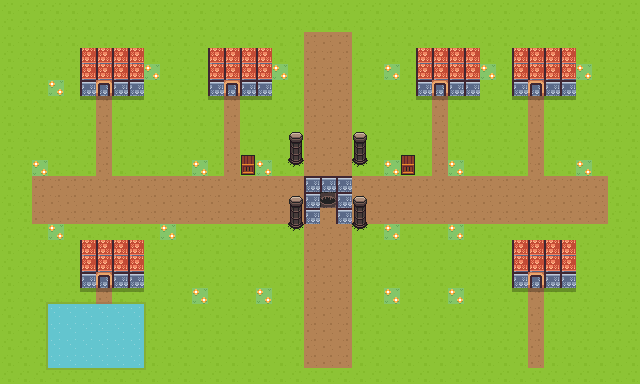
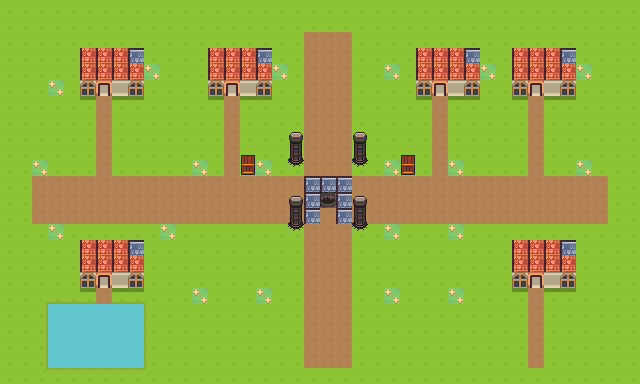
Agaclar tam gorunum, begendi evler, saldiri animasyonu ve gercekci katmanli sesler

diff --git a/src/main.js b/src/main.js
@@ -609,17 +609,12 @@ scene("game", (data = {}) => {
 		add([rect(14, mapH * TILE), pos(mapW * TILE - 14, 0), color(rgb(38, 74, 42)), opacity(0.95), z(0.5)]);
 
 		// live trees give y-sorted depth over the baked ground
-		for (const [x, y, s] of [[2, 7, 1.8], [9, 2, 1.6], [17, 2, 1.6], [24, 2, 1.6], [30, 8, 1.8], [37, 8, 1.8], [2, 17, 1.6], [9, 18, 1.5], [30, 19, 1.7], [37, 18, 1.6], [11, 8, 1.7], [24, 8, 1.7], [29, 8, 1.7], [7, 13, 1.6]]) {
+		for (const [x, y, s] of [[2, 7, 1.8], [9, 2, 1.6], [17, 2, 1.6], [24, 2, 1.6], [30, 8, 1.8], [2, 17, 1.6], [9, 18, 1.5], [30, 19, 1.7]]) {
 			addTree(x, y, s);
 		}
-		// full tree line at the town edges
-		for (let x = 2; x < mapW - 1; x += 5) {
-			addTree(x, 1, 1.15);
-			addTree(x, mapH - 2, 1.15);
-		}
-		for (let y = 4; y < mapH - 2; y += 5) {
-			addTree(1, y, 1.15);
-			addTree(mapW - 2, y, 1.15);
+		// extra full-canopy trees inside the camera view
+		for (const [x, y, s] of [[4, 9, 2.2], [12, 9, 2.0], [24, 9, 2.0], [32, 9, 2.0], [7, 14, 1.9], [28, 17, 1.8]]) {
+			addTree(x, y, s);
 		}
 
 		const solid = (x, y, w, h, tag = "townsolid") => add([
@@ -875,6 +870,7 @@ scene("game", (data = {}) => {
 			sprite("hero", { anim: "idle" }),
 			pos(p.x, p.y),
 			anchor("center"),
+			scale(1),
 			area({ scale: vec2(0.62, 0.42), offset: vec2(0, 7) }),
 			body(),
 			z(p.y + 14),
@@ -882,6 +878,7 @@ scene("game", (data = {}) => {
 			{
 				facing: vec2(0, 1),
 				attackCd: 0,
+				attackAnim: 0,
 				atkStep: 0,
 				atkTimer: 0,
 				dashCd: 0,
@@ -1503,6 +1500,10 @@ scene("game", (data = {}) => {
 		if (player.atkStep > 3) player.atkStep = 1;
 		player.atkTimer = 0.8;
 		player.attackCd = player.atkStep === 3 ? 0.36 : 0.23;
+		player.attackAnim = 0.16;
+		player.play("hit");
+		tween(1, 1.12, 0.06, (v) => (player.scale = vec2(v)));
+		tween(1.12, 1, 0.12, (v) => (player.scale = vec2(v)));
 		play("swing", { volume: player.atkStep === 3 ? 0.5 : 0.35 });
 		play("swing2", { volume: player.atkStep === 3 ? 0.32 : 0.22 });
 		const dir = player.facing;
@@ -1737,7 +1738,10 @@ scene("game", (data = {}) => {
 			if (isKeyDown("right") || isKeyDown("d")) dir.x += 1;
 			if (isKeyDown("up") || isKeyDown("w")) dir.y -= 1;
 			if (isKeyDown("down") || isKeyDown("s")) dir.y += 1;
-			if (player.hitAnim > 0) {
+			if (player.attackAnim > 0) {
+				player.attackAnim = Math.max(0, player.attackAnim - d);
+				player.play("hit");
+			} else if (player.hitAnim > 0) {
 				player.hitAnim = Math.max(0, player.hitAnim - d);
 				player.play("hit");
 			} else if (dir.len() > 0) {
@@ -1749,6 +1753,7 @@ scene("game", (data = {}) => {
 				if (player.walkT > 0.28) {
 					player.walkT = 0;
 					play("step2", { volume: 0.1 });
+					burst(player.pos.add(vec2(0, 12)), [115, 105, 95], 2);
 				}
 			} else {
 				player.play("idle");
